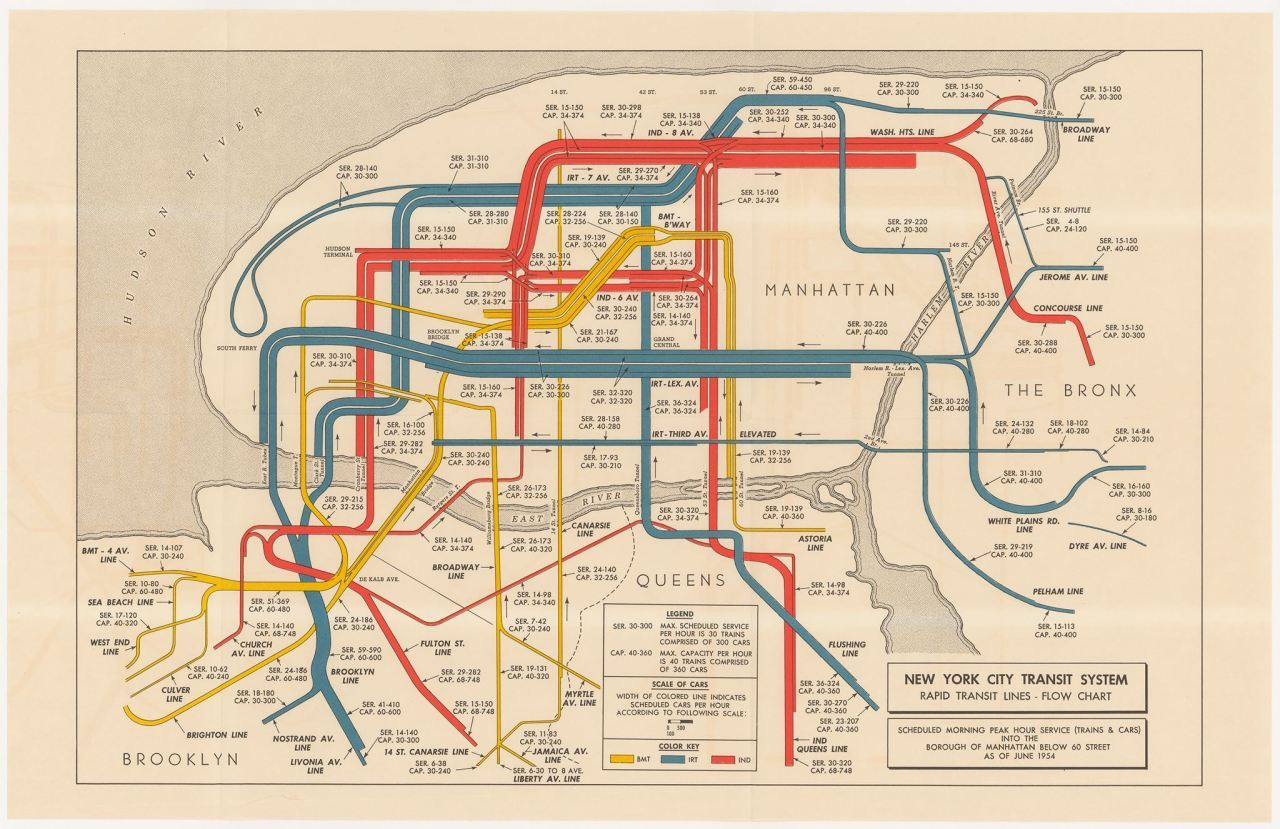
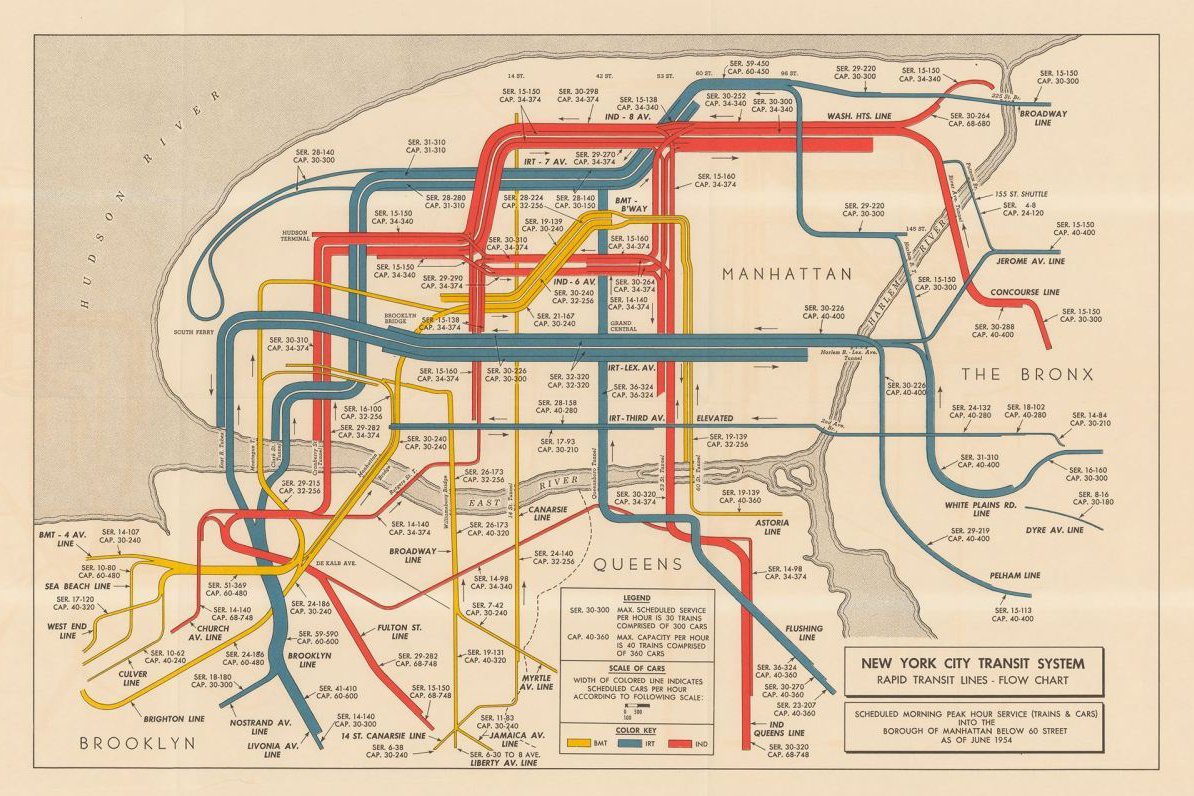
new intro img

diff --git a/index.html b/index.html
@@ -28,12 +28,12 @@ font-size: 135px;
 
 .reveal h1 {
   line-height: 1em;
-  font-size: 245px;
+  font-size: 7em;
   font-weight: bold;
 display: block;
 clear: both;
 border-bottom: 0px;
-color:#fff;
+
 
 }
 
@@ -71,9 +71,8 @@ color:#fff;
 .reveal h3 {
   font-weight: 300;
   display: block;
-  font-size: 80px;
-  color: #fff;
-  font-weight: 400;
+  font-size: 4em;
+  font-weight: 800;
   margin-bottom: 20px
 }
 
@@ -165,15 +164,15 @@ section div.double-wide img{
 }
 
 .reveal .slides>section.intro-page {
-  background: url("imgs/nyc_subway_map.jpg") no-repeat top left;
+  background: url("imgs/nyc_subway_map_light.jpg") no-repeat top left;
   background-size: 100%;
-
-
 }
 
 .intro-page h1 {
   margin-top: 120px;
 }
+
+
 </style>
   </head>
 
